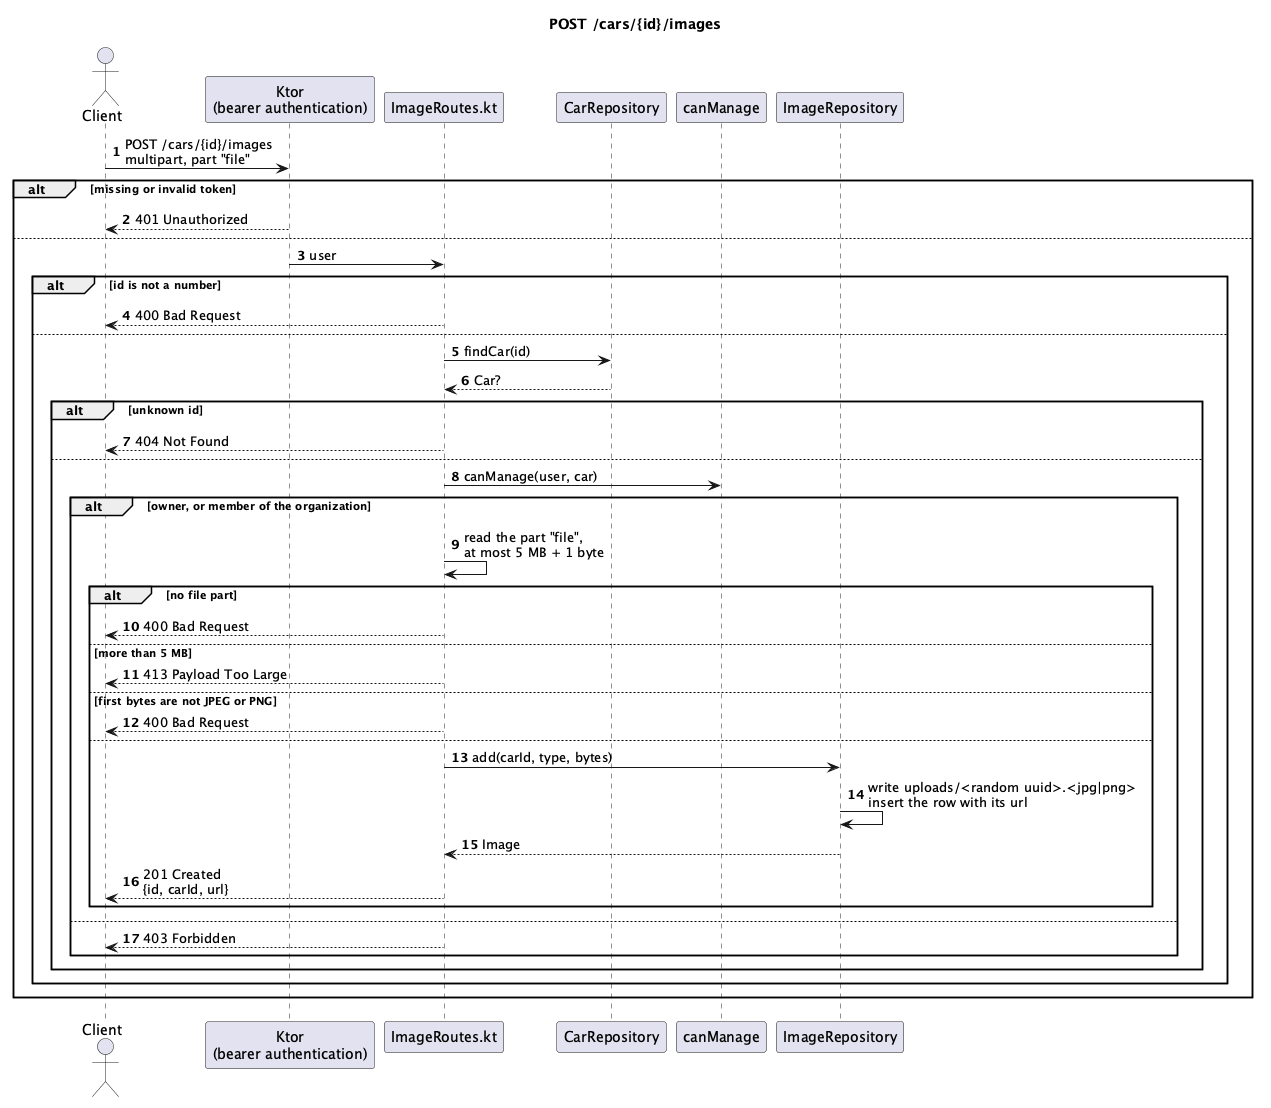
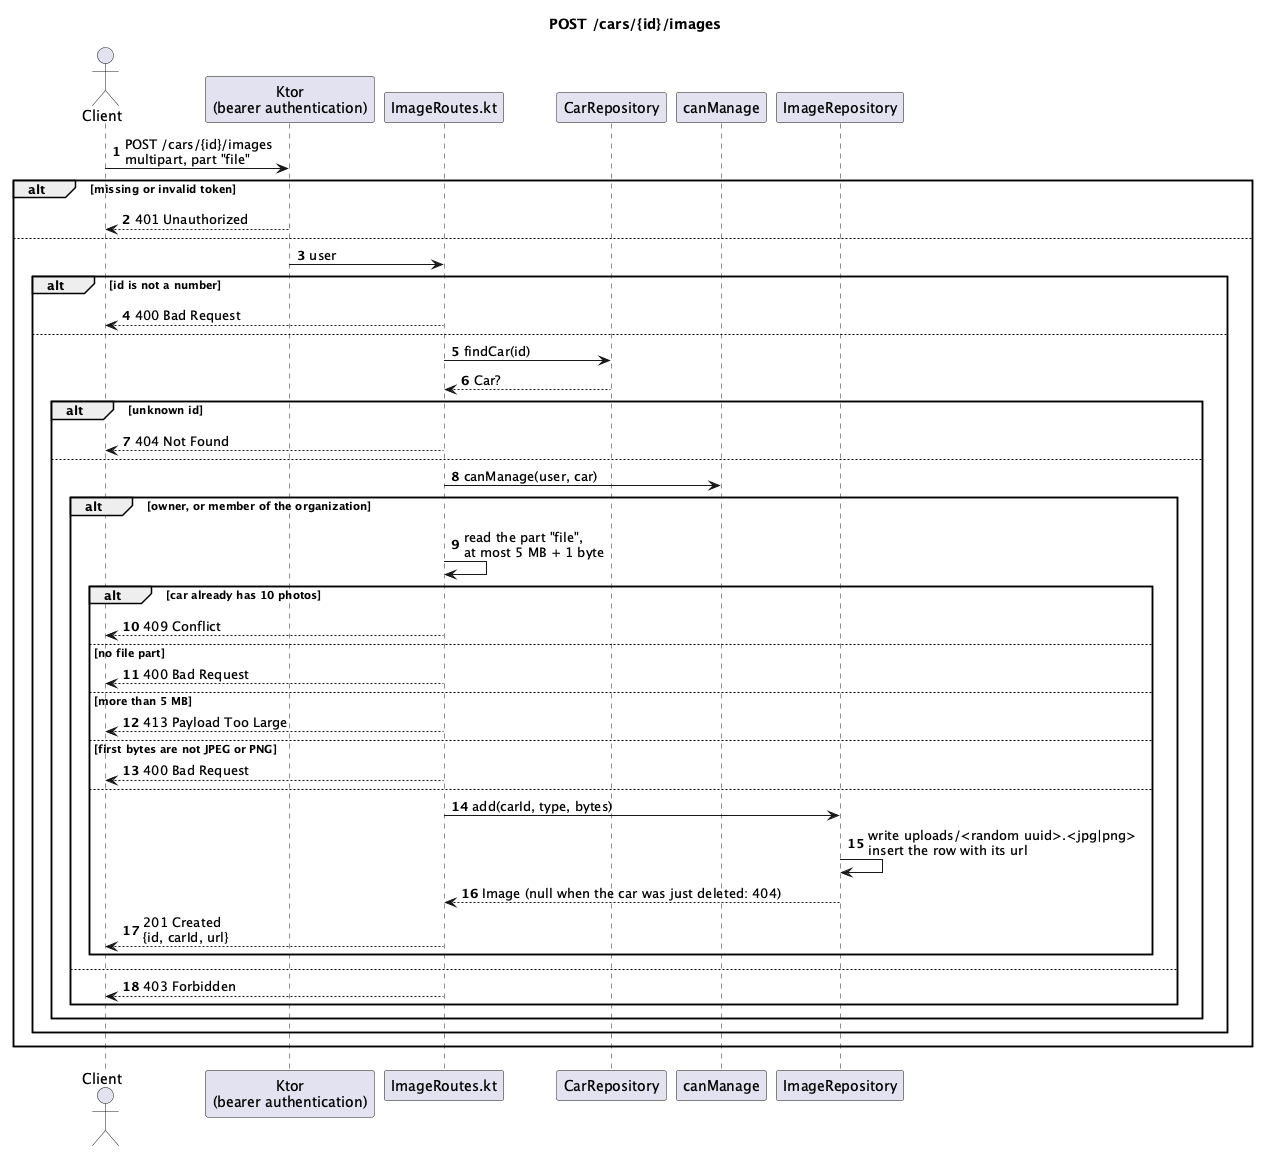
Document the photo cap and the images field of GET /cars/{id}

diff --git a/README.md b/README.md
@@ -61,7 +61,7 @@ Swagger UI is only served in Ktor's development mode, which is on by default. St
 | `DELETE` | `/cars/{id}`              | Delete a car you may delete    | `204`   | `400`, `401`, `403`, `404`        |
 | `GET`    | `/cars/{id}/cost-per-km`  | Energy cost of one km          | `200`   | `400`, `404`                      |
 | `GET`    | `/cars/{id}`              | Get a car with its photo urls  | `200`   | `400`, `401`, `404`               |
-| `POST`   | `/cars/{id}/images`       | Add a JPEG or PNG photo        | `201`   | `400`, `401`, `403`, `404`, `413` |
+| `POST`   | `/cars/{id}/images`       | Add a JPEG or PNG photo        | `201`   | `400`, `401`, `403`, `404`, `409`, `413` |
 | `GET`    | `/images/{name}`          | Download a photo               | `200`   | `404`                             |
 | `GET`    | `/cars/{id}/tco`          | Total cost of ownership a year | `200`   | `400`, `401`, `403`, `404`        |
 | `POST`   | `/cars/{id}/reservations` | Reserve a car for a daypart    | `201`   | `400`, `401`, `404`, `409`        |
@@ -78,7 +78,7 @@ A car is rented per daypart: `MORNING` (06:00-12:00), `AFTERNOON` (12:00-18:00) 
 
 A car is private or belongs to an organization. `POST /cars` with an `organizationId` (you must be a member, else `403`) makes an organization car: it has no `ownerId`, every member can update it and see its TCO, and only an admin can delete it. Private cars are managed by their owner only. Deleting an account removes its private cars; organization cars stay.
 
-Photos: `POST /cars/{id}/images` takes a multipart form with the photo in the part `file` (JPEG or PNG, up to 5 MB; whoever may manage the car). The server checks the file's first bytes instead of trusting its name or declared type, stores it under a random name and answers `{id, carId, url}`. `GET /cars/{id}` lists the urls in `images`, and every url serves the photo without a login. Deleting a car removes its photos too.
+Photos: `POST /cars/{id}/images` takes a multipart form with the photo in the part `file` (JPEG or PNG, up to 5 MB and 10 per car, `409` beyond that; whoever may manage the car). The server checks the file's first bytes instead of trusting its name or declared type, stores it under a random name and answers `{id, carId, url}`. `GET /cars/{id}` lists the urls in `images`, and every url serves the photo without a login. Deleting a car removes its photos too.
 
 After driving, the renter sends the trip of their reservation to `POST /reservations/{id}/trip` with `distanceKm`, `hardAccelerations` and `hardBrakes` as the app measured them, once per reservation and not before its date. The server calculates the `score` (100, minus 5 for every hard acceleration or brake per 100 km, never below 0) and awards `distanceKm * score / 100` points (rounded down) to the renter's `bonusPoints`, which accounts show.
 
